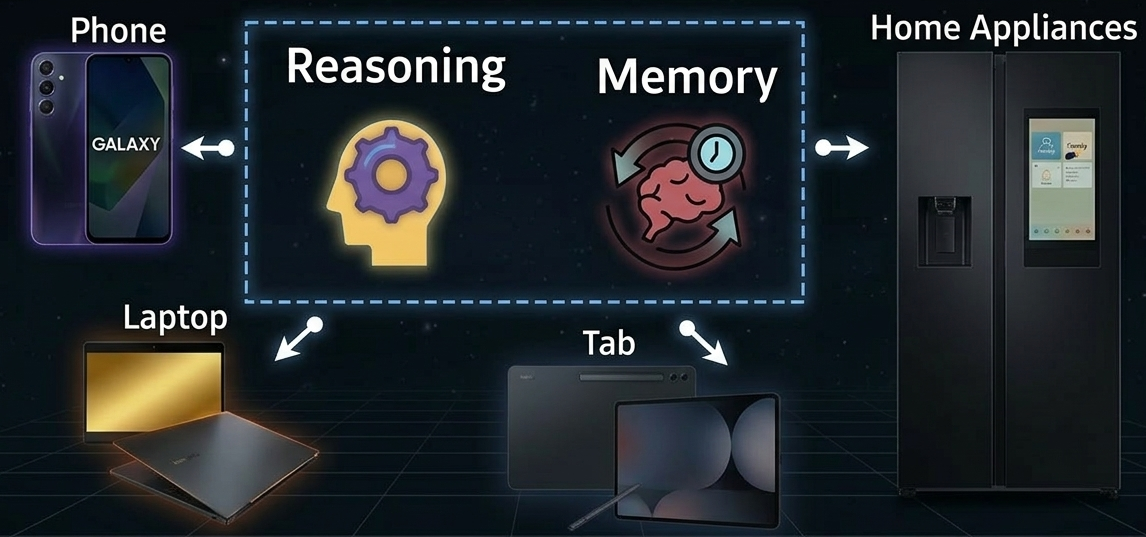
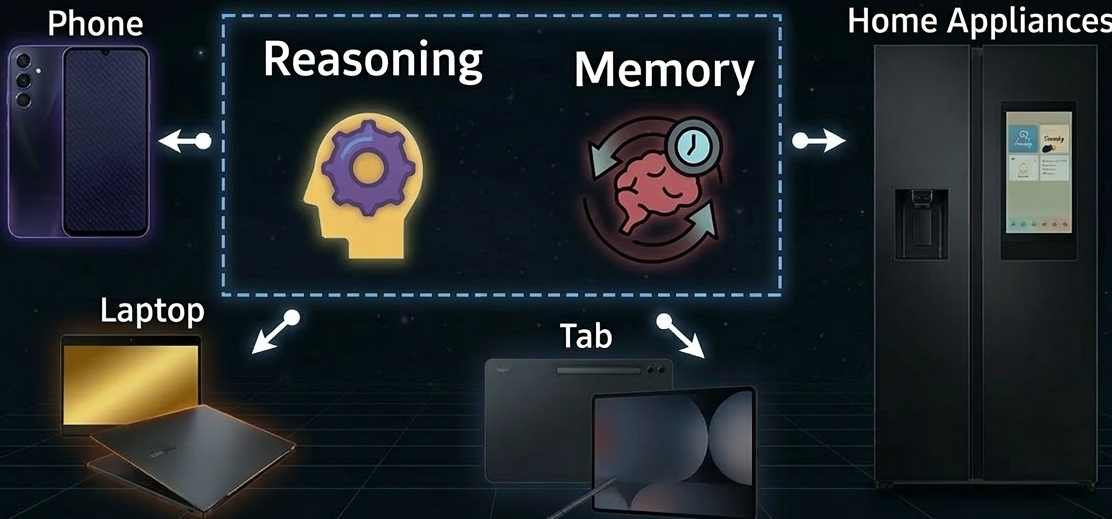
adjust for mobile view

diff --git a/_pages/team.md b/_pages/team.md
@@ -121,12 +121,6 @@ author_profile: true
   }
 }
 
-@media (max-width: 600px) {
-  .team-grid {
-    grid-template-columns: 1fr;
-  }
-}
-
 .team-card {
   background: rgba(255, 255, 255, 0.03);
   border: 1px solid rgba(255, 255, 255, 0.12);
@@ -188,7 +182,7 @@ author_profile: true
 </style>
 
 
-<p style="text-align:center; margin: 0 0 0.5rem -3.5rem;">
+<p style="text-align:center; margin: 0 0 0.5rem -0.5rem;">
   <img src="/assets/images/imperial_building.png" alt="Imperial College London" style="max-width: 520px; width: 100%; border-radius: 10px; box-shadow: 0 8px 24px rgba(0,0,0,0.35);">
 </p>
 
